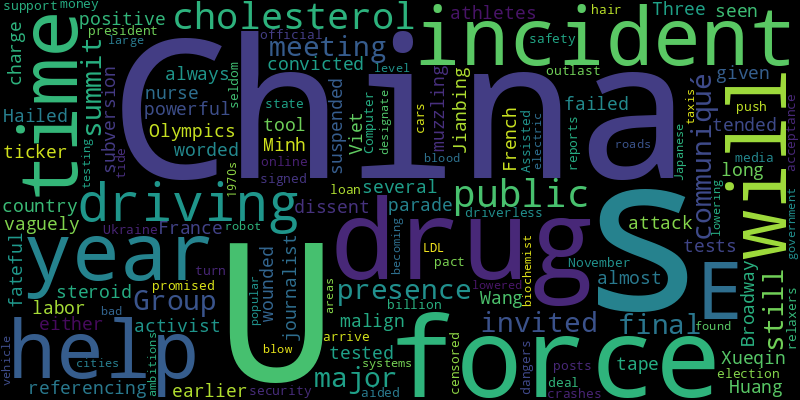
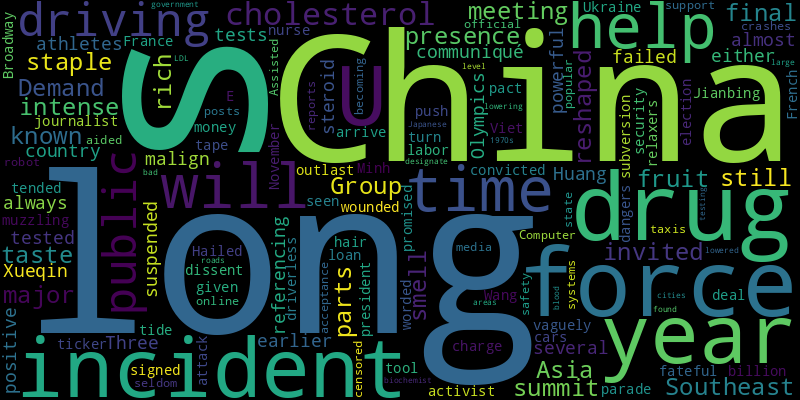
chore(bot): 🟩 auto commit

diff --git a/README.md b/README.md
@@ -2,32 +2,33 @@
 Auto RSS New York Times and Generate Word Cloud
 
 ## New York Times Global News
+* After hundreds of years of enmity with Russia, Chechens are deploying to Ukraine to fight Moscow’s war.
+* After the Hernández sisters served breakfast to an opposition leader, the government shut down their restaurant. Then came an outpouring of support.
+* Iran released an E.U. diplomat from Sweden and a dual Iranian-Swedish national, while Sweden released a former Iranian judiciary official serving a life sentence for war crimes.
+* Since the 1979 revolution, Iran has made detaining foreigners and dual nationals a centerpiece of its foreign policy, trading them for money and people.
+* Europe’s climate change-minded parties performed poorly in the European Union elections. Is the once ambitious European green movement over, or could its electoral crash launch a rebirth?
+* Years before becoming The Post’s publisher, Will Lewis assigned an article based on stolen phone records, a former reporter said.
+* Kyiv hopes to garner nations’ support for three points in its peace proposal, but it’s a hard sell, with China and Brazil declining to send high-level delegations.
 * Catherine took part in a ceremonial parade to celebrate the birthday of her father-in-law, King Charles III.
-* Azahriah, who has rapped about the joy of cannabis, has shot to fame in Hungary. That may explain why he has been applauded by the country’s conservative leader, Viktor Orban.
+* A newly formed left-wing coalition called on demonstrators to stop Marine Le Pen’s National Rally party from taking power in upcoming elections.
 * Ordinary Gazans are bearing the brunt of the 8-month Israeli military onslaught on the territory and many blame the Palestinian armed faction for starting the war.
-* While not invited to the Group of 7 meeting, China was still a major presence, with the summit’s final communiqué referencing the country 28 times, almost always as a malign force.
-* Human rights groups are urging Canada to stop holding migrants seeking asylum in jails, often with people accused of violent crimes.
-* Three athletes who failed drug tests before the 2021 Olympics had tested positive for a powerful steroid several years earlier. They were not suspended in either incident.
-* The United States, France and other mediators have sought for months to reach an agreement that would stop the tit-for-tat missile strikes over Israel’s border with Lebanon.
-* The Islamic State and Al Qaeda consider Africa ‘very fertile ground,’ said Christopher A. Wray, who is meeting with officials in Nigeria and Kenya.
-* Wording in the summit’s final statement led to a diplomatic tug of war, primarily between the United States and Italy.
-* In a message to the public, Catherine said she would attend King Charles’s birthday parade this weekend and wrote candidly about “knowing I am not out of the woods yet.”
 
 ![Global](./global.png)
 ## New York Times United States News
+* Stifling conditions are forecast to spread this week over the eastern half of America — and linger for days.
 * The movement looks for a path forward: “Is the goal the absolute abolition of abortion in our nation?”
-* Pope Francis, noted for his outreach to gay Catholics, has been described as using an offensive Italian expression for gay men twice in recent weeks.
-* The challenge, from two of the families who filed the initial lawsuit, raises the possibility that access to I.V.F. could once again be in jeopardy in the state.
-* The federal agent who fatally shot the executive director of Little Rock’s airport was justified in his use of force, a local prosecutor said on Friday.
+* “Are you sitting down?” Vermont’s state botanist asked a fellow plant expert after spotting false mermaid-weed last month.
+* Montana’s suicide rate has been the highest in the U.S. for the past three years. Most of the deaths involved firearms. But suicide rarely registers in the national debate over guns.
 * The Constitution and U.S. law have clear answers for only some of the questions raised by the criminal conviction of a major presidential candidate.
 * The former president could face probation or prison time. Either option would be without precedent.
 * Donald J. Trump has promised to appeal, but he may face limits on his ability to travel and to vote as he campaigns for the White House.
-* President Biden plans to fly from a gathering of world leaders in Italy to Los Angeles to appear along with Barack Obama, George Clooney, Julia Roberts, Jimmy Kimmel and others.
-* With Donald Trump’s rampage at the first 2020 debate still fresh in the memories of both campaigns and the moderators, the candidates are preparing in sharply different ways.
-* Every weekend, a flea market in Alamo, Texas, transforms from a Latino shopping mecca into a dance floor. The locals’ colorful moves have drawn fans around the world.
+* The fire spread rapidly after starting on Saturday afternoon near Interstate 5, and firefighters faced difficult conditions.
+* We fact-checked claims about migrants and border security from both presidential candidates.
+* Representative Tom Cole of Oklahoma is fighting off a right-wing challenger who has tried to make the lawmaker’s influential perch a liability.
 
 ![US](./usnews.png)
 ## New York Times Asia News
+* Demand for the fruit, known for its rich taste and intense smell, has reshaped parts of Southeast Asia, where it has long been a staple.
 * While not invited to the Group of 7 meeting, China was still a major presence, with the summit’s final communiqué referencing the country 28 times, almost always as a malign force.
 * Three athletes who failed drug tests before the 2021 Olympics had tested positive for a powerful steroid several years earlier. They were not suspended in either incident.
 * Huang Xueqin, a journalist, and Wang Jianbing, a labor activist, were convicted of subversion, a vaguely worded charge long seen as a tool for muzzling dissent.
@@ -36,7 +37,6 @@ Auto RSS New York Times and Generate Word Cloud
 * Also, China’s push into driverless cars and the dangers of hair relaxers.
 * Computer-aided driving has official support and public acceptance, but state media seldom reports crashes or safety incidents, and online posts are censored.
 * Assisted driving systems and robot taxis are becoming more popular with government help, as cities designate large areas for testing on public roads.
-* The Japanese biochemist found in the 1970s that cholesterol-lowering drugs lowered the LDL, or “bad” cholesterol, level in the blood.
-* Also, an E.U. blow to China’s electric-vehicle ambitions.
+* The Japanese biochemist found in the 1970s that cholesterol-lowering drugs lowered the level of LDL, or “bad” cholesterol, in the blood.
 
 ![Asian](./asian.png)
